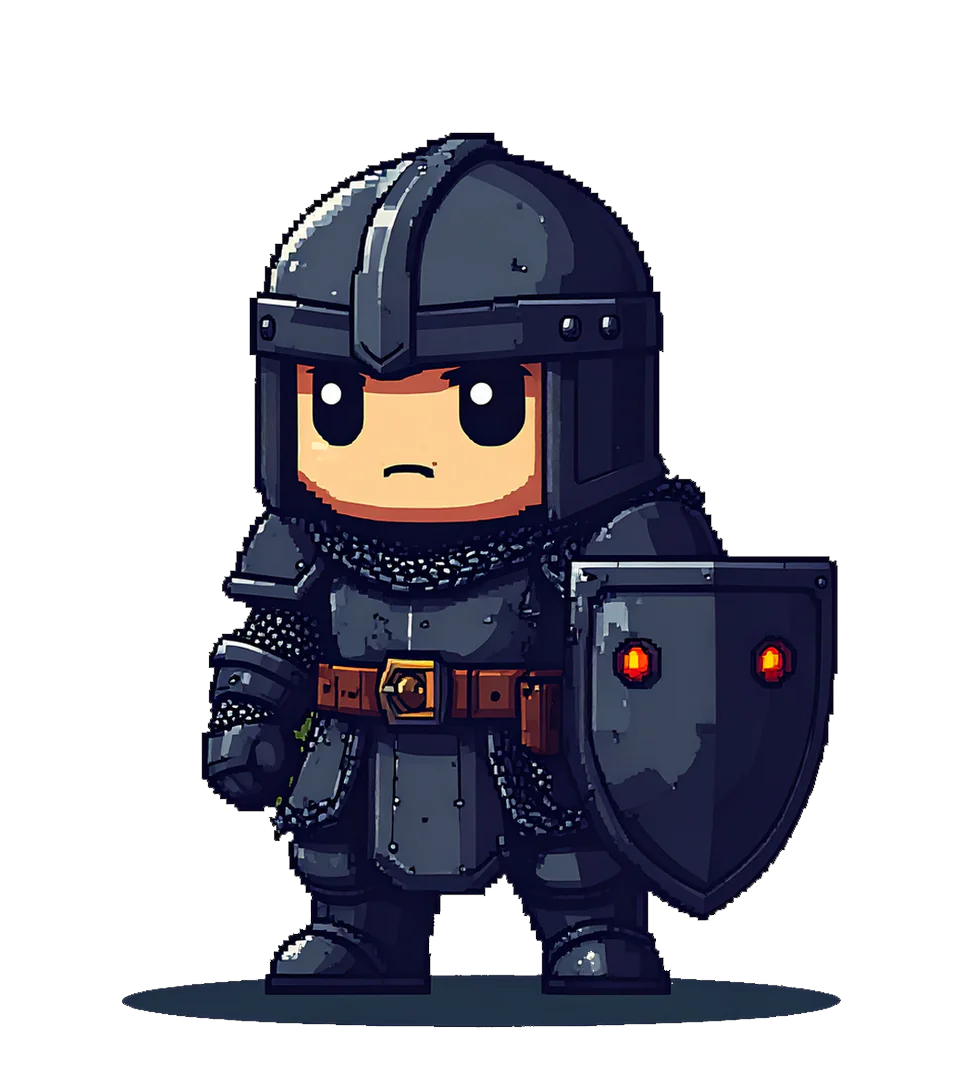
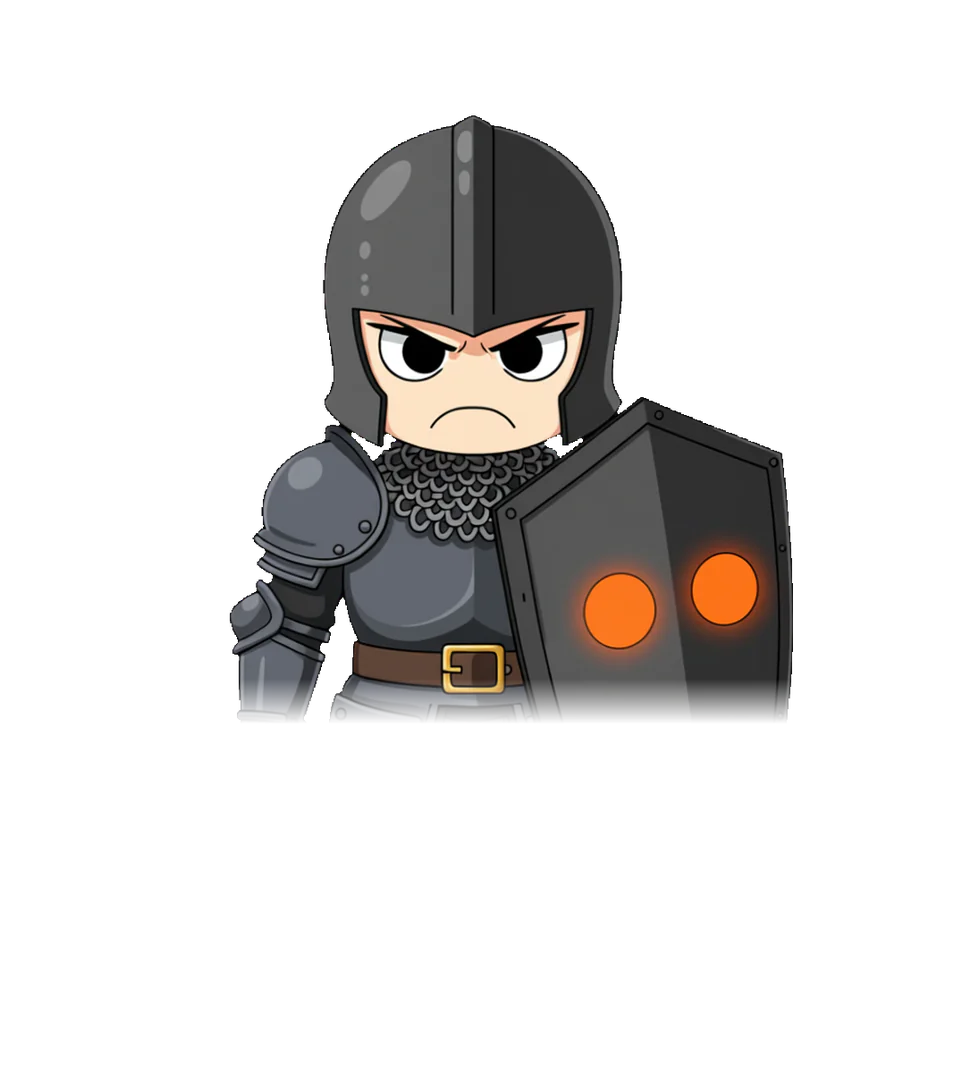
스토리 초상화 나머지 6장 치비 애니풍 반신으로 교체 (23장 통일), 인계 문서 갱신
- boss_60(어두운 투구)·boss_90(떠 있는 조각 제거)·boss_100: 위 여백을 기존 17장에 맞춤
- boss_93·kasha·commander_f: CAST.md 설정대로 재생성 (외눈 안경·숫자 고리 / 깃털 망토·쌍단검 / 은색 지휘봉)
- 시험 19개·내보내기 5개·check_pc5 통과, 독립 재검수 통과 (규칙 불변)

diff --git a/docs/media/HANDOFF.md b/docs/media/HANDOFF.md
@@ -3,6 +3,8 @@
 > 작성 2026-10-25 · 게임 0.4.2 · 다른 세션이 이어서 작업할 수 있게 현재 상태, 결정, 도구, 절차, 남은 일을 한 곳에 정리했습니다.
 > 사용자는 비개발자 디렉터입니다. **모든 답변은 한국어**로 하고, 큰 작업은 계획 → 구현 에이전트 → 독립 검수 → 수정 → 커밋·푸시 순서로 진행합니다. (메모리: `~/.claude/projects/-Users-2z-Desktop-workspace-game-deadline-15/memory/`)
 
+미디어 작업 규칙을 모은 에이전트 지침: `.claude/agents/media-producer.md` (git 제외, 이 PC에만 있음).
+
 ## 0. 먼저 알아 둘 것 (규칙)
 
 | 규칙 | 내용 |
@@ -27,32 +29,34 @@
 | 스토리 초상화 17장 교체 | **적용·커밋 완료** (`d155d4a`) | `godot/assets/image/character/story/*.webp` |
 | 용량 절감 | 완료: pck 107→43MB, AAB 164→75MB | `godot/README.md` '용량 줄이기' |
 
-적용된 스토리 17장: bark, boss_10, boss_20, boss_30, boss_40, boss_45, boss_50, boss_70, boss_80, boss_92, boss_94, boss_95, boss_99, bram, commander_m, ordin, sera.
+스토리 초상화 23장 모두 치비 애니풍 반신으로 적용 완료 (17장 `d155d4a` 2026-10-24, 나머지 6장 2026-10-25).
 
-## 2. 진행 중이던 작업: 스토리 초상화 나머지 6장
+## 2. 스토리 초상화 23장 (완료, 다시 만들 때 참고)
 
-### 2-1. 상태 (사용자가 "이미지 생성 잠시 중단"을 지시해 중단됨)
+### 2-1. 나머지 6장 결과 (2026-10-25~26)
 
-사용자 결정: **모든 스토리 초상화를 같은 그림체(치비)로 통일**. 현재 6장은 아직 **옛 도트 그림이 게임에 들어 있음** (새 그림과 섞여 나옴, 위치는 일관됨).
-
-| 이름 | 현재 final/ 상태 | 할 일 |
+| 이름 | 적용본 | 메모 |
 |---|---|---|
-| boss_90 | 합격 (투구 안 어둡고 붉은 눈, 붉은 스카프, 도끼) | 적용 가능. 후처리 점검 |
-| boss_100 | 합격 (뿔 사이 가시 왕관, 붉은 눈) | 적용 가능. 몸이 어깨 위까지만 보임 |
-| boss_60 | 깨끗한 애니풍이나 **투구가 원래보다 밝은 은색**. 치비 질감은 맞음 | 어두운 강철 투구 후보(v12, 시드 91·92) 생성·비교 후 선택. 불발이면 현재 것 적용 |
-| boss_93 | 현실 비율 전신(작게 나옴). **불합격(체형 불일치)** | 치비로 재생성 |
-| commander_f | 현실 비율, 포니테일·입 벌림·흰 허리띠. **불합격** | 치비로 재생성 (풀어 내린 긴 머리) |
-| kasha | 현실 비율, 검 안 보임. **불합격** | 치비로 재생성 (붉은 리본 포니테일, 허리춤 검자루) |
+| boss_60 | v12 시드 91 (`gen_b60d.py`, 어두운 강철 투구) | 위 여백 맞추려고 0.894배 축소(아래 끝 722 유지) |
+| boss_90 | 이전 합격본 | 몸과 떨어진 창끝 조각 제거 |
+| boss_93 | **v13 시드 112** (`gen_chibi13.py`) | CAST대로 악마 마술사: 은발·검은 뿔·뾰족 귀·금테 외눈 안경·보라 숫자 고리. v11본(둥근 안경·초록 넥타이)은 해리 포터 연상으로 검수 탈락 |
+| boss_100 | 이전 합격본 | 0.95배 축소로 위 여백 맞춤. 어깨 위 구도 |
+| kasha | **v13 시드 113** | 검은 깃털 망토·붉은 줄 한 가닥·쌍단검·비웃음 (v11본은 흰 털 깃·리본·장검이라 탈락) |
+| commander_f | **v13 시드 112** (사용자 선택) | 은색 지휘봉. 머리 윤곽 밝은 선·흰 조각·초록 번짐 손 정리 |
 
-재생성 방법(v11, 중단 직전 설계): 이미 승인된 치비 결과(raw)를 **스타일 참조**로 이식합니다. `gen_chibi.py <이름> <시드>` → `out/v11/<이름>_<시드>_raw.png`.
-- boss_93 참조: boss_94, boss_20, boss_80 / commander_f 참조: commander_m, sera / kasha 참조: boss_94, bram, boss_95
-- 시드 101~104, 캐릭터당 최대 4개. **v8(아주 흐린 도트 참조)과 v10(전투 초상화 참조)은 쓰지 말 것** — v8은 더 픽셀화, v10은 현실 비율이 나옴.
+- 머리 위 여백 기준: 기존 17장 맨 위 불투명 픽셀 중앙값 107px, 아래 끝 약 722. 새 그림은 아래 끝을 고정하고 축소해 맞춤.
+- v13 은 12장 중 10장이 전신으로 나와 허리 위로 자름(1.3~1.4배 확대). `post_story.py`·`clean_v13.py` 는 높이 기준을 옛 도트 그림(`backup_old/`)에서 읽게 고침 — `art_src/story/` 는 이제 새 그림이라 기준이 틀어짐.
+- 비교 시트 `compare/v11_*`·`v13_*`, 이전 final 은 `backup_old/final_prev{,2,3}/`, 옛 도트 원본 `backup_old/<키>.png`.
+- 검수: 1차 '수정 필요'(위 탈락 사유 + boss_90 조각 + 여백) → 수정 후 재검수 '통과'. 시험 19개·내보내기 5개·check_pc5 105 통과.
+
+재생성 방법(v11): 이미 승인된 치비 결과(raw, `out_selected/`)를 **스타일 참조**로 이식합니다. `gen_chibi.py <이름> <시드>` → `out/v11/<이름>_<시드>_raw.png`.
+- **v8(아주 흐린 도트 참조)과 v10(전투 초상화 참조)은 쓰지 말 것** — v8은 더 픽셀화, v10은 현실 비율이 나옴.
 - 프롬프트에 `chibi, 2 to 2.5 head-tall proportions, big head, large glossy anime eyes, thick clean outlines, waist-up bust composition` 를 넣고 `realistic proportions, tall slim body, full body` 는 배제.
+- 다른 프로젝트(chrono_elemental·deck_tactics)의 영상 배치가 MLX-Serve 에 요청 중이면 메모리 다툼이 나므로 끝날 때까지 기다림. 끝났는지는 **프로세스가 살아 있는지**(`pgrep -fl run_video_batch\|b3_runner`)로 볼 것 — deck_tactics `queue.txt` 는 처리 뒤에도 줄이 지워지지 않아 '비었는지'로 판단하면 영원히 기다림(2026-10-25 밤 16시간 헛대기).
 
 ### 2-2. 생성 도구와 명령 (요약)
 
-작업 폴더(원본, 휘발성): `/private/tmp/claude-501/-Users-2z-Desktop-workspace-game-deadline-15/ce3e70d8-eb69-421f-8fca-6ab19ac5743e/scratchpad/portrait/story/`
-**영구 사본: `docs/art/story_portraits/`** (git 제외 대상으로 두거나 커밋하지 말 것, 약 27MB)
+**작업 폴더: `docs/art/story_portraits/`** (2026-10-25 스크립트 경로를 이 폴더로 고침, 출력 `out/<버전>/`·후처리 `out/<버전>_final/`) (git 제외 대상으로 두거나 커밋하지 말 것, 약 27MB)
 
 | 파일 | 역할 |
 |---|---|
@@ -63,13 +67,14 @@
 | `scripts/sheet_story.py` | 기존 그림 / 새 그림 나란히 보는 비교 시트 → `compare/` |
 | `scripts/run_all.sh` | 순차 배치 (대기 루프 없음. 최대 개수만큼만) |
 | `scripts/apply_story.sh` | **게임에 적용**: 크기 검사(962x1087) → `art_src/story/` 원본 보관 → `cwebp -q 85 -m 6 -sharp_yuv -alpha_q 100` → `.webp.import` 확인 |
-| `final/` | 현재 최종 후보 23장 (17장은 이미 적용된 후처리본, 6장은 위 표 상태) |
+| `final/` | 게임에 들어간 23장의 후처리본 |
+| `scripts/check_clean.py`, `sheet_v11.py` | 흰 테두리·초록 번짐 점검·정리 / 번호 붙인 비교 시트 |
 | `out_selected/` | 스타일 참조로 쓰는 승인된 치비 raw 7장 |
 | `compare/` | 비교 시트 |
 | `backup_old/` | 적용 전 옛 원본 |
 
 mflux 핵심 인자 (gen_story.py 에서): `mflux-generate-qwen-edit --model qwen-image-edit -q 8 --lora Qwen-Image-Edit-2509-Lightning-8steps-V1.0-bf16.safetensors 1.0 --image-paths <참조> --prompt <…> --width 768 --height <16배수> --steps 8 --guidance 1.0 --seed N`. 실행 파일 `~/.local/bin/mflux-generate-qwen-edit`, LoRA 는 `~/.cache/huggingface/hub/models--lightx2v--Qwen-Image-Lightning/...`.
-참조 이미지는 기존 도트 그림(`art_src/story/<이름>.png` 의 상단 66%)을 흰 배경에 얹고 강하게 흐려서(`SMOOTH_D=8`, `SMOOTH_B=3`) 질감 전달을 막습니다. **스크립트의 `D` 경로는 `godot/assets/image/character/story/` 로 되어 있어 옛 PNG 를 읽던 시절 값입니다. 지금은 원본 무손실 PNG가 `art_src/story/` 에 있으니 경로를 확인하고 쓰세요.**
+참조 이미지는 기존 도트 그림(`art_src/story/<이름>.png` 의 상단 66%)을 흰 배경에 얹고 강하게 흐려서(`SMOOTH_D=8`, `SMOOTH_B=3`) 질감 전달을 막습니다. 원본 무손실 PNG 는 `godot/assets/image/character/art_src/story/` 에서 읽습니다.
 
 ### 2-3. 적용 절차 (사용자 승인 후)
 
@@ -83,7 +88,7 @@ mflux 핵심 인자 (gen_story.py 에서): `mflux-generate-qwen-edit --model qwe
 
 | 순서 | 항목 | 상태 | 메모 |
 |---|---|---|---|
-| 1 | 스토리 초상화 6장 마무리 | 위 2번 | 사용자: "이미지 생성 잠시 중단" 후 재개 대기. "이미지 생성 다시 진행해" 가 오면 시작 |
+| 1 | (완료) 스토리 초상화 23장 | 완료 | 위 2번 |
 | 2 | 500골드 코인 아이콘 | **화풍 불일치** (다른 골드 패키지 아이콘과 그림체가 다름) | 새 그림 필요. `godot/assets/image/icon/` 상점 골드 카드 4종과 나란히 비교 |
 | 3 | 정식 앱 아이콘 | 임시 아이콘 사용 중 | 사용자가 도형·일러스트 엠블럼 모두 불만족. 시안 방향을 먼저 사용자와 다시 정할 것 (참고 이미지: 채색풍 원형 엠블럼). `godot/tools/make_mobile_icons.py` 로 플랫폼별 아이콘 생성 |
 | 4 | 스토어 그래픽 (Google Play) | **미준비** | 아이콘 512x512, 대표 이미지 1024x500, 스크린샷 최소 2장(권장 휴대폰 가로/세로). 스크린샷은 게임을 실행해 직접 찍을 수 있음(`godot/tests/shots_*.gd`) |
